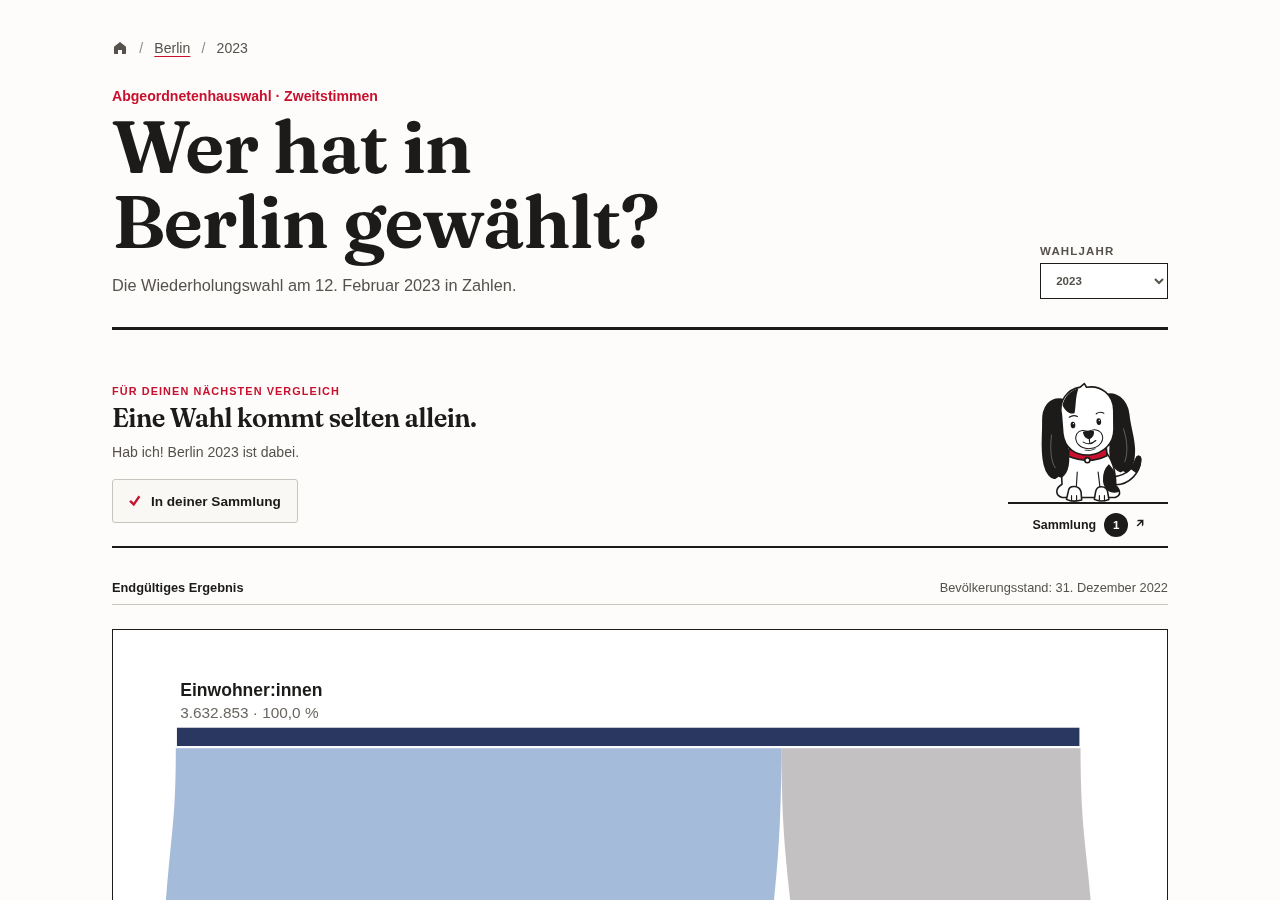
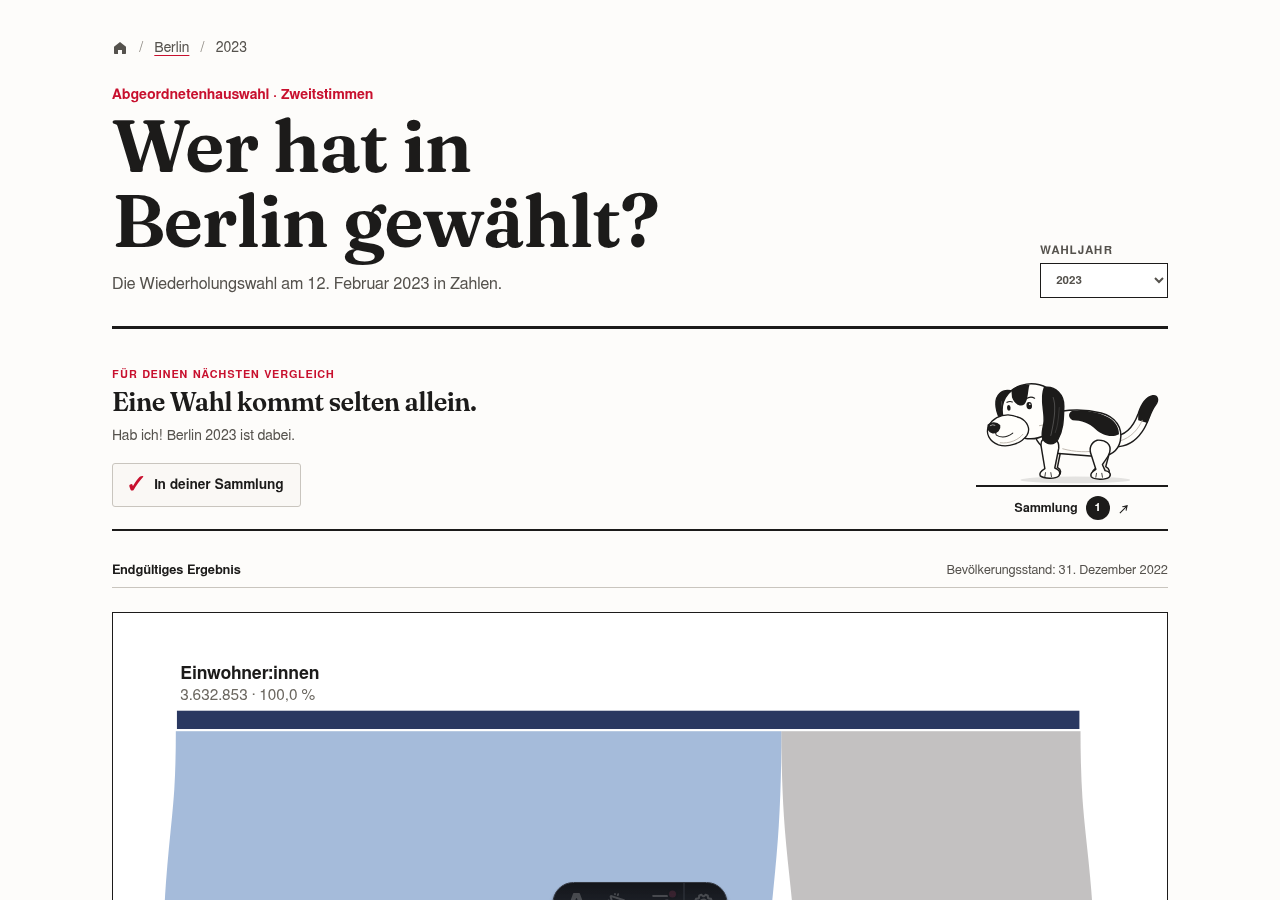
Refine companion artwork and catch animation

diff --git a/design/MASCOT.md b/design/MASCOT.md
@@ -10,8 +10,9 @@ and may eventually point out connections between them.
 
 - A mostly white spaniel with long, floppy black ears and a rounded,
   beagle-like muzzle; not a basset's droopy face and not a copy of Snoopy.
-- Combine concept **01**'s seated body/head tilt with concept **03**'s peeking
-  face and paws. Expressions should use ears, gaze, posture, and anticipation.
+- Use a side-facing, articulated standing silhouette with a lively tail and
+  expressive head. Separate legs, ears, head, and tail make the running and
+  airborne poses readable instead of merely moving a seated icon.
 - The first [concept sheet](mascot-concepts.png) ([SVG](mascot-concepts.svg))
   established direction, **not an accepted quality bar**. The user found the
   illustrations lackluster. Do not treat those drawings as finished assets.
@@ -23,9 +24,10 @@ and may eventually point out connections between them.
 
 1. **Attention:** occasional glances toward meaningful hovered or focused
    controls. Do not continuously follow every pointer movement.
-2. **Collection:** adding an election sends a small card with its place/year
-   toward the dog. It anticipates, jumps, catches, and settles. The dog is also
-   the entry point to the collection.
+2. **Collection:** adding an election throws a miniature of its actual chart,
+   labelled with place/year, toward the dog. The dog runs a few steps toward the
+   throw, jumps, catches it at the peak, lands, and returns to rest. The dog is
+   also the entry point to the collection.
 3. **Discovery, later:** optional, contextual stories about historic elections
    or similarities. Use curated sources, not improvised historical claims.
    Stories must be dismissible and infrequent, not hover-triggered interruptions.
@@ -34,7 +36,8 @@ and may eventually point out connections between them.
 
 - Register the addition immediately. Animation is feedback, never a prerequisite
   for storing the election or opening the collection.
-- Anticipation → card arc → airborne catch → settle, without a long celebration.
+- Anticipation → short run → card arc → airborne catch → landing → settle,
+  with the card and muzzle aligned at contact and no long celebration.
 - Do not add the same election twice. A collected election can be removed.
 - Honour reduced motion; the collection remains equally usable without flight,
   jump, or gaze movement. Keyboard users get the same actions and status feedback.
@@ -47,7 +50,7 @@ Build the collection interaction before historical stories or analytical
 comparisons:
 
 - One shared companion on home, state, and election pages.
-- An add button on election pages; a place/year card flies to the dog.
+- An add button on election pages; a miniature of the page's chart flies to the dog.
 - A collection dialog with election links and individual removal.
 - Browser-local persistence of election IDs only. Allowlist IDs against the
   current content collection; never trust stored labels or URLs.
@@ -75,8 +78,8 @@ historical facts should be fabricated to make a demonstration look complete.
 ## Implementation and verification
 
 - `src/components/ElectionCompanion.astro`: shared collection shelf, dialog,
-  persistence, gaze, and cancellable flight/jump choreography.
-- `src/components/ElectionDog.astro`: articulated vector behaviour prototype.
+  persistence, gaze, chart thumbnail, and cancellable run/jump/catch choreography.
+- `src/components/ElectionDog.astro`: articulated standing vector behaviour prototype.
 - `src/data/comparison.ts`: allowlisted stored-ID parser.
 - `scripts/check-comparison.mjs`: malformed input, duplicates, order, stale IDs,
   and untrusted values. Included in `pnpm test`.
@@ -87,10 +90,11 @@ or warnings), production build, all 16 state pages, and 19 election diagrams.
 The built production site also passed a collect/persist smoke check with no
 browser errors. [Production-build screenshot](companion-prototype.png).
 
-Local Chrome checks exercised actual card flight and body movement, duplicate
-prevention, collection links, year navigation with Astro's client router, reload
-persistence, removal and empty state, Escape/focus restoration, keyboard-triggered
-gaze, reduced motion, and widths of 320 and 390 pixels without page overflow.
+Local Chrome checks exercised actual chart flight, running leg movement, an
+airborne catch with the card and muzzle aligned, landing, duplicate prevention,
+collection links, year navigation with Astro's client router, reload persistence,
+removal and empty state, Escape/focus restoration, keyboard-triggered gaze,
+reduced motion, and widths of 320 and 390 pixels without page overflow.
 Simulated blocked reads and quota failures kept the collection usable; write
 failure also preserved selections across in-app navigation and recovered when
 storage became available.

diff --git a/README.md b/README.md
@@ -79,9 +79,9 @@ and converts them. `pnpm test` also checks demographic parser failures, invalid
 metadata, vote conservation, generated pages and Sankey geometry.
 ## Election companion prototype
 
-A shared spaniel companion collects elections from their results pages. The dog
-catches a place/year card; its collection button opens a keyboard-accessible dialog
-with links and removal. IDs are stored locally in this browser, validated against
+A shared spaniel companion collects elections from their results pages. A miniature
+of the actual chart flies toward the dog, which runs, jumps, and catches it. The
+collection button opens a keyboard-accessible dialog with links and removal. IDs are stored locally in this browser, validated against
 the current election catalog. If storage is unavailable, the collection stays in
 memory during in-app navigation. Reduced motion skips animation and gaze changes.
 This first slice does not yet compare charts side by side or tell historical stories.

diff --git a/DESIGN.md b/DESIGN.md
@@ -229,8 +229,10 @@ Source links inherit muted footer text with red 1px underlines, offset by 0.18em
 
 ## Playful companion (behaviour prototype)
 
-A black-and-white spaniel adds character through gaze, anticipation, and a short
-catch when an election joins the collection. The shared in-flow shelf keeps its
+A side-facing black-and-white spaniel adds character through gaze, articulated
+running legs, and an airborne catch when an election joins the collection. A
+miniature of the actual chart follows a throwing arc; the dog runs toward it,
+jumps, catches it at the peak, and lands. The shared in-flow shelf keeps its
 artwork out of the chart, including on mobile. A native modal dialog opens the
 collection; reduced motion omits gaze and catch animation without changing actions.
 The small red collar uses the interface accent, not a party colour.

diff --git a/PRODUCT.md b/PRODUCT.md
@@ -47,8 +47,9 @@ Politically neutral: explain the data without endorsing parties or telling peopl
 
 The site should become more playful through a useful, politically neutral dog
 companion. It observes meaningful interactions and catches elections added to a
-browser-local collection. The character combines a seated spaniel with a peeking
-pose; the initial drawings are directional studies, not approved final artwork.
+browser-local collection. The side-facing, articulated spaniel runs toward a
+miniature chart, jumps to catch it, and lands; the initial drawings were
+directional studies, not approved final artwork.
 
 The first slice is collecting and reopening elections, not yet an analytical
 comparison. Optional historical stories follow only with curated sources. Preserve
